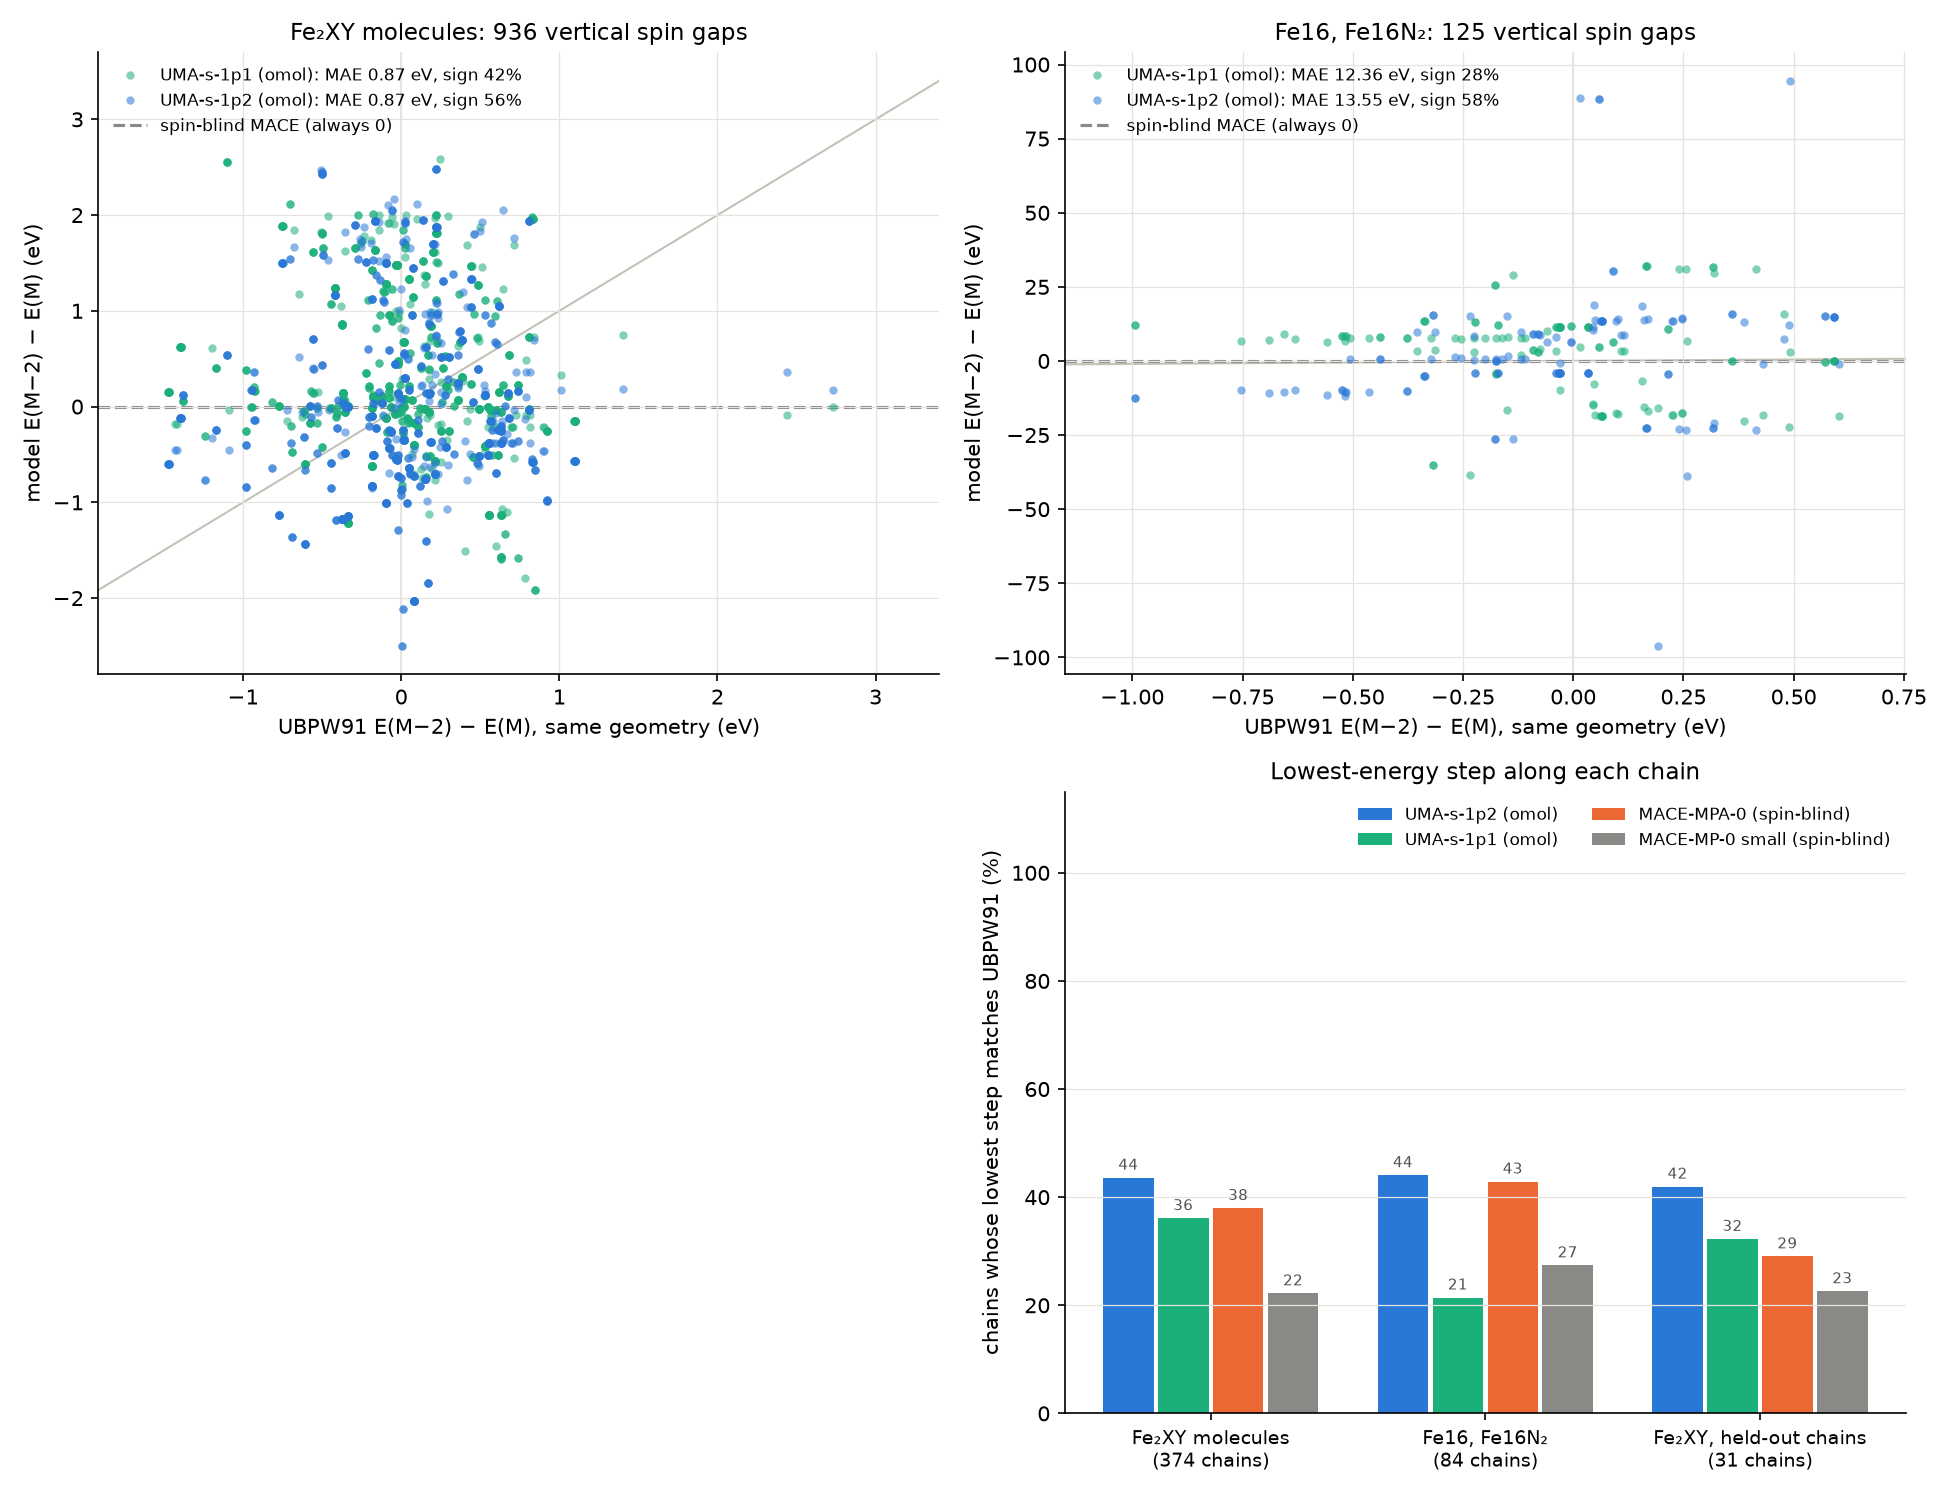
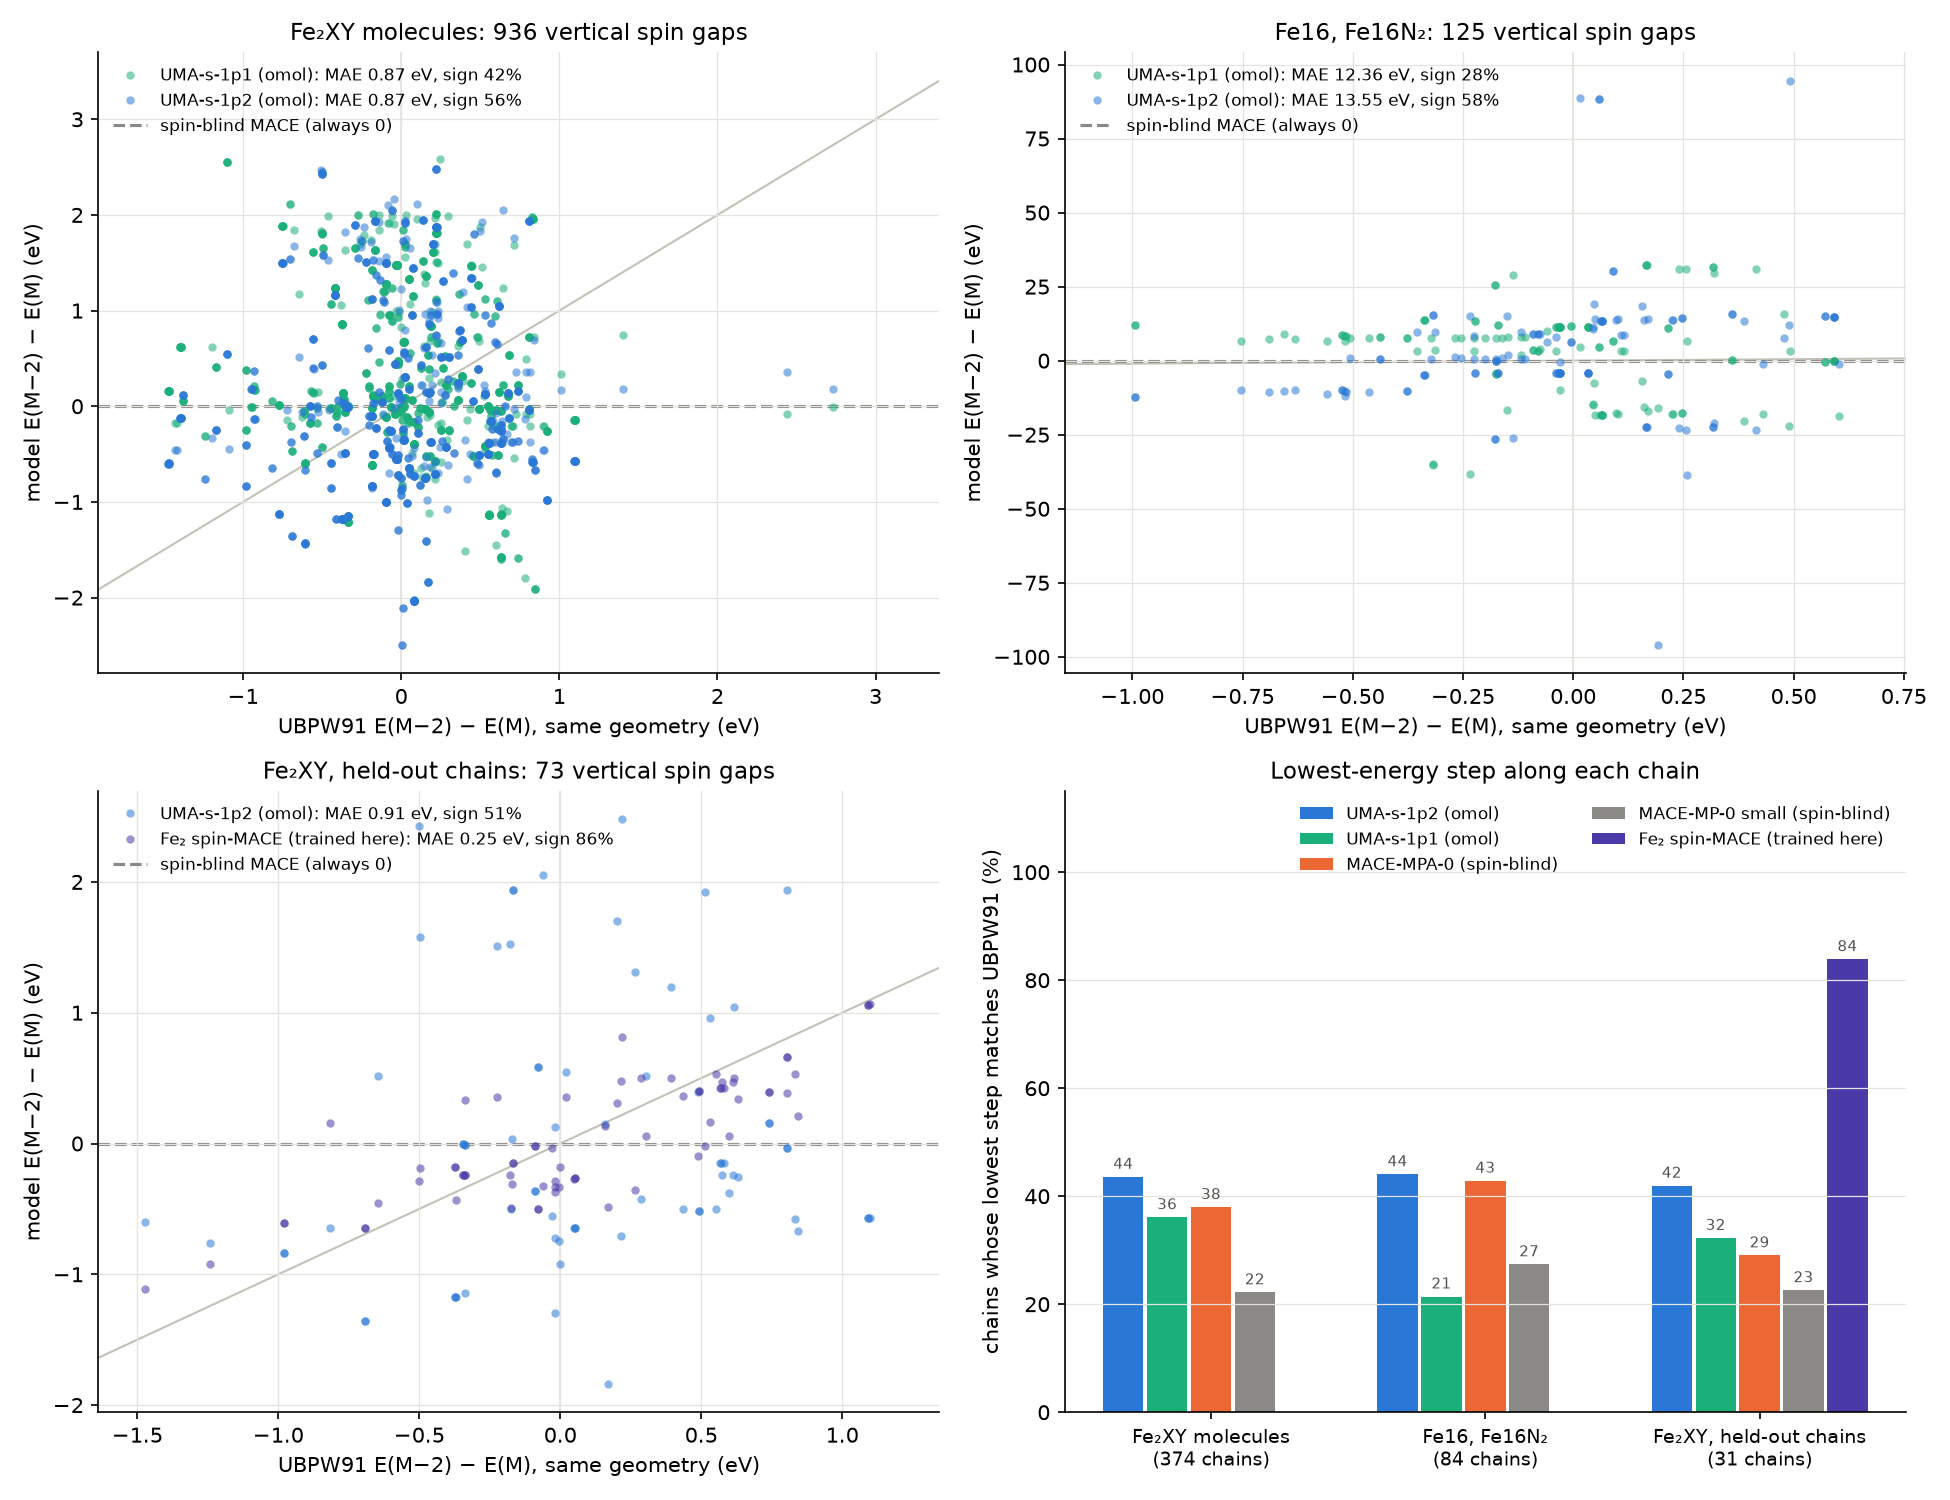
fe_spin_ladder: the spin-embedded MACE learns the Fe2XY ladders
On held-out chains: spin-gap MAE 0.25 eV (UMA 0.91), r = 0.82, right chain
ground state 26/31 (UMA 13/31), forces 0.08 eV/A. Off its data (UMA's step-1
TS on Fe2O4 + N2) it puts the saddle below the intermediate.

diff --git a/examples/fe_spin_ladder/README.md b/examples/fe_spin_ladder/README.md
@@ -23,23 +23,28 @@ This example asks, with no new DFT labels:
 
 ## Conclusions
 
-*Work in progress (2026-09-29): the foundation-model benchmark and the SAMSON
-step 1 are done; the Psi4 functional check (2 of 8 spin gaps so far), the
-spin-embedded MACE (epoch 42 of 60) and the DFT check of the reaction energies
-are still running.*
+*Work in progress (2026-09-29): the Psi4 functional check (2 of 8 spin gaps so
+far) and the DFT check of the N₂ reaction energies are still running.*
 
 - **No foundation model reproduces the UBPW91 spin ladders.** UMA's Fe₂XY gaps are
   uncorrelated with UBPW91 (r ≈ 0), its MAE is twice that of predicting zero,
   and on Fe16 it is off by 12–14 eV. The spin-blind models give zero by
   construction.
-- **Part of the disagreement is the functional, part is UMA.** On the two gaps
+- **A small MACE with a total-spin embedding, trained on ~14,000 of these frames
+  on the laptop GPU, does learn them.** On held-out chains: spin-gap MAE 0.25 eV
+  (UMA 0.91), r = 0.82, the right sign 86 % of the time, the right chain ground
+  state 26 of 31 times (UMA 13), forces 0.08 eV/Å (UMA 1.05). It needed the
+  embedding keys set by hand: without them mace-torch trains spin-blind silently
+  (below).
+- **Part of UMA's disagreement is the functional, part is UMA.** On the two gaps
   checked so far, Psi4 BPW91 reproduces the Gaussian labels within 0.2 eV and
   ωB97M-V shifts the gap by 0.6–0.7 eV; UMA matches ωB97M-V once (within
   0.08 eV) and misses it by 1 eV with the wrong sign once.
-- **On Fe₂O₄, N₂ is a spectator**: in SAMSON with UMA, turning N₂ into two
-  nitrosyls has no concerted path below 12 eV, and the first step (N₂ adding to
-  a terminal Fe=O to give bound N₂O) has a 2.53 eV barrier and ends 0.91 eV
-  uphill.
+- **On Fe₂O₄, N₂ is a spectator** (UMA, in SAMSON): turning it into two nitrosyls
+  has no concerted path below 12 eV, and the first step (N₂ adding to a terminal
+  Fe=O to give bound N₂O) has a 2.53 eV barrier and ends 0.91 eV uphill. The
+  trained MACE is no help there: its frames are relaxations near minima, and at
+  UMA's TS it puts the saddle below the intermediate.
 
 ## The data and the tests
 
@@ -109,14 +114,32 @@ wander by up to 1 mEh (meta-GGA + VV10 on these open-shell Fe clusters).
 
 (eV; E(M − 2) − E(M) at the same geometry.) Six more are running.
 
-## A spin-embedded MACE trained here (running)
+## A spin-embedded MACE trained here
 
-`train_fe2_spin.py`: MACE 64x0e+64x1o, r_max 5 Å, with categorical total-spin
-and total-charge graph embeddings (ClusterMLIP's recipe), from scratch on the
-Fe₂XY frames in the dataset's grouped split (14,452 train, 1,978 valid, 1,343
-test frames; whole source structures per split), float64, on the laptop GPU.
-At epoch 42 of 60 the validation errors are 68 meV/atom and 130 meV/Å. Its
-spin gaps on the 73 held-out hand-offs go into `analyze.py` when it finishes.
+`train_fe2_spin.py`: MACE 64x0e+64x1o, r_max 5 Å, two interactions, with
+categorical total-spin and total-charge graph embeddings (ClusterMLIP's recipe,
+plus the `key` fields), from scratch on the Fe₂XY frames in the dataset's
+grouped split (14,452 train, 1,978 valid, 1,343 test frames; whole source
+structures per split; UBPW91 force RMS ≤ 5 eV/Å), float64, E0s from a
+composition fit. 60 epochs, 2.3 h on the laptop GPU (sharing the CPU with Psi4);
+the best validation epoch (35) was kept. MACE's own test table: 83 meV/atom,
+77 meV/Å.
+
+On the held-out chains (44 source structures it never saw; UMA and the others
+on the same frames):
+
+| | Gap MAE (eV) | Gap r | Right sign | Chain ground state | Relaxation MAE (meV) | Force RMSE (eV/Å) |
+|---|---|---|---|---|---|---|
+| **Fe₂ spin-MACE (trained here)** | **0.25** | **0.82** | **86 %** | **26 / 31** | **66** | **0.083** |
+| UMA-s-1p2 | 0.91 | 0.11 | 51 % | 13 / 31 | 349 | 1.05 |
+| UMA-s-1p1 | 0.84 | −0.10 | 41 % | 10 / 31 | 355 | 1.09 |
+| MACE-MPA-0 (spin-blind) | 0.44 | — | — | 9 / 31 | 395 | 1.00 |
+| MACE-MP-0 small (spin-blind) | 0.44 | — | — | 7 / 31 | 447 | 1.16 |
+
+The remaining 0.25 eV is still large next to the gaps themselves (median |gap|
+0.37 eV on these chains, 0.29 eV over all Fe₂XY), and this is one seed on data collected with ClusterMLIP's old code
+(its step 3 re-collects it). But the embedding works: the same run without the
+`key` fields (spin-blind by accident) stalled at 230 meV/atom and 262 meV/Å.
 
 ## N₂ on Fe₂O₄ in SAMSON
 
@@ -147,6 +170,11 @@ ends; SAMSON's importer reordered their atoms, see below):
    The scan jumped branch at one point, but the IRC confirms both ends.
    `n2_step1.py` rebuilds the intermediate from the TS and checks it against the
    IRC end.
+
+The trained spin-MACE gives +1.40 eV for the full reaction at the UBPW91
+geometries (UBPW91 +0.60; its reactant chain is in the test split, the product's
+in validation), and at UMA's step-1 geometries it puts the TS at +0.25 eV, below
+the intermediate (+0.62): it has no frames like a TS to learn from.
 
 So UMA says N₂ stays N₂ on this cluster. The DFT check of the reaction energy,
 the barrier and the intermediate (BPW91 and ωB97M-V) is running; the
